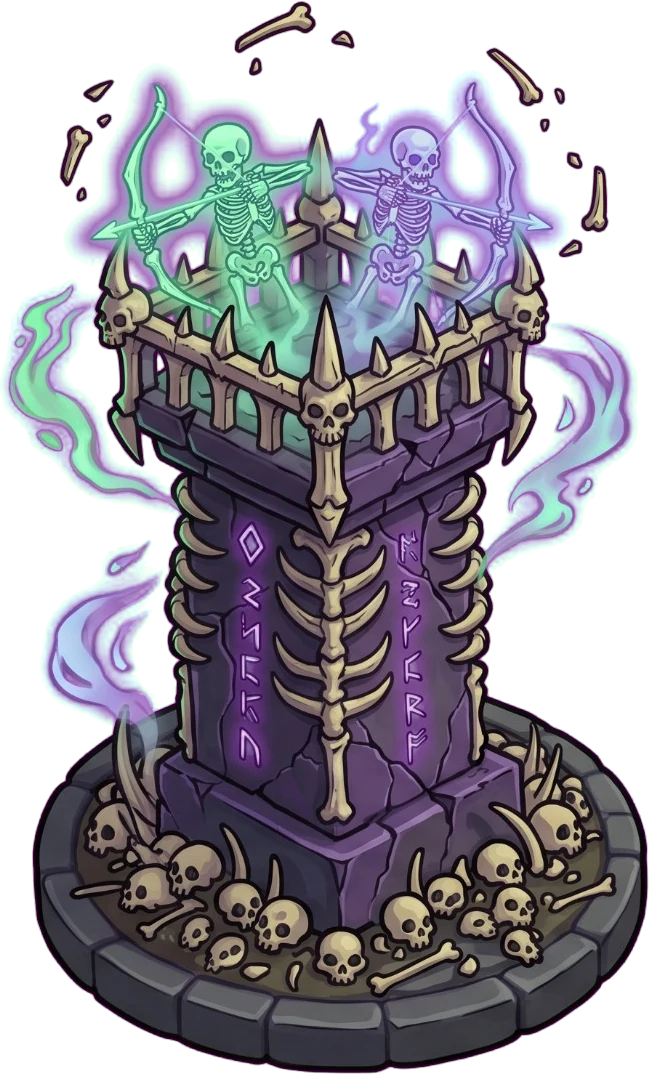
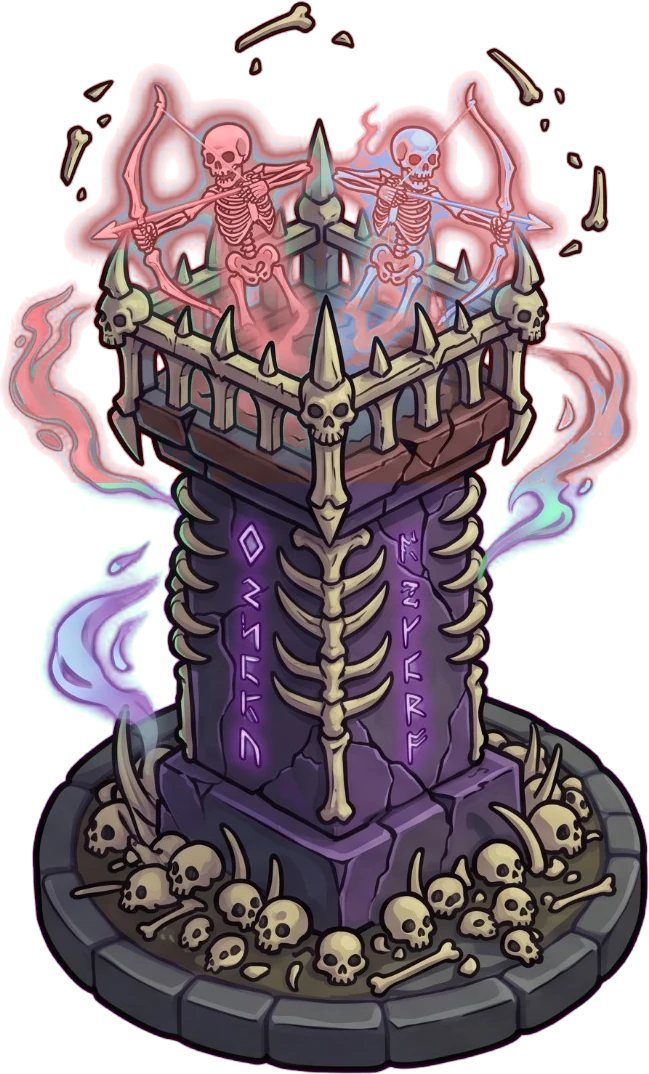
Yollar sol alttaki portre ve büyü düğmelerinin altından geçmez (18 bölüm, tools/hud-yol-duzelt.js, arsalar yeniden); hayalet okçular kırmızı (yayın 218)

diff --git a/sinir-kalesi/js/data.js b/sinir-kalesi/js/data.js
@@ -169,39 +169,39 @@ const WEATHER = {
 // 15 bölümün yol ve arsa düzeni (oynanış sırasıyla)
 const LEVELS = [
   { paths: [[[-40,250],[110,250],[210,170],[340,150],[450,210],[470,310],[400,390],[470,460],[610,450],[700,400],[760,370],[862,290]]], plots: [[514,384],[316,216],[796,432],[382,258],[88,150],[598,375],[238,246],[691,315],[388,498]] },
-  { paths: [[[420,-40],[420,70],[300,110],[170,160],[180,250],[330,280],[520,240],[620,170],[690,230],[640,320],[480,350],[400,430],[540,480],[690,450],[770,390],[862,300]]], plots: [[544,408],[310,204],[835,423],[478,174],[640,396],[355,348],[394,192],[691,123],[88,234],[364,498]] },
-  { paths: [[[-40,120],[150,120],[330,100],[520,120],[640,170],[650,250],[560,290],[400,280],[260,300],[200,370],[270,440],[430,470],[600,450],[730,420],[862,320]]], plots: [[511,219],[346,384],[634,372],[262,174],[460,399],[691,348],[190,210],[442,180],[544,390],[106,222],[577,210]] },
-  { paths: [[[-40,330],[100,330],[200,300],[300,200],[450,170],[580,210],[650,310],[740,380],[862,300]],[[-40,330],[100,330],[200,300],[300,400],[450,440],[580,410],[650,310],[740,380],[862,300]]], plots: [[544,324],[313,297],[691,231],[190,408],[394,312],[670,426],[520,258],[106,228],[463,369],[802,438],[400,240]], routes: {"0":[0,1]} },
-  { paths: [[[-40,420],[120,420],[230,360],[330,300],[460,290],[560,330],[660,350],[750,360],[862,280]],[[560,-40],[560,80],[440,120],[340,180],[330,300],[460,290],[560,330],[660,350],[750,360],[862,280]]], plots: [[418,216],[334,378],[691,285],[502,216],[100,324],[628,414],[238,264],[622,156],[796,420],[268,420],[505,384]] },
-  { paths: [[[-40,130],[150,130],[300,180],[430,270],[560,370],[680,420],[760,390],[862,300]],[[-40,400],[150,400],[300,350],[430,270],[560,170],[660,160],[700,250],[690,330],[760,390],[862,300]]], plots: [[586,300],[298,270],[790,456],[604,234],[214,276],[94,276],[430,366],[703,486],[424,171],[154,228],[862,414],[316,420]] },
+  { paths: [[[420,-40],[420,70],[300,110],[170,160],[180,250],[330,280],[520,240],[620,170],[690,230],[640,320],[480,350],[400,415],[540,480],[690,450],[770,390],[862,300]]], plots: [[544,408],[310,204],[742,318],[478,174],[640,396],[352,348],[394,192],[772,252],[88,234],[382,498]] },
+  { paths: [[[-40,120],[150,120],[330,100],[520,120],[640,170],[650,250],[560,290],[400,280],[260,300],[200,327],[270,355],[491,470],[600,450],[730,420],[862,320]]], plots: [[508,222],[292,222],[520,402],[712,348],[400,348],[190,210],[442,174],[610,378],[106,222],[238,420],[808,462]] },
+  { paths: [[[-40,330],[100,330],[200,300],[300,200],[450,170],[580,210],[650,310],[740,380],[862,300]],[[-40,330],[100,330],[200,300],[300,379],[467,440],[580,410],[650,310],[740,380],[862,300]]], plots: [[544,324],[316,294],[748,288],[202,402],[460,312],[670,426],[106,228],[400,240],[802,438],[382,492],[520,258]], routes: {"0":[0,1]} },
+  { paths: [[[-40,387],[120,387],[230,360],[330,300],[460,290],[560,330],[660,350],[750,360],[862,280]],[[560,-40],[560,80],[440,120],[340,180],[330,300],[460,290],[560,330],[660,350],[750,360],[862,280]]], plots: [[424,216],[340,378],[712,288],[514,204],[202,294],[664,420],[106,288],[430,360],[622,156],[796,420],[244,222]] },
+  { paths: [[[-40,130],[150,130],[300,180],[430,270],[560,370],[680,420],[760,390],[862,300]],[[-40,387],[150,387],[300,350],[430,270],[560,170],[660,160],[700,250],[690,330],[760,390],[862,300]]], plots: [[586,300],[298,270],[790,456],[112,264],[604,234],[418,366],[214,270],[700,486],[430,174],[862,414],[484,408],[772,210]] },
   { paths: [[[380,-40],[380,80],[260,130],[170,220],[220,320],[360,340],[480,280],[600,250],[680,320],[760,340],[862,260]],[[600,580],[600,470],[650,400],[680,320],[760,340],[862,260]]], plots: [[580,336],[316,228],[691,228],[526,396],[394,186],[748,408],[262,408],[130,138],[718,474],[460,144],[175,378]] },
   { paths: [[[-40,220],[120,220],[220,260],[330,180],[470,150],[600,180],[680,260],[700,350],[770,380],[862,300]],[[520,-40],[520,60],[470,150],[600,180],[680,260],[700,350],[770,380],[862,300]],[[-40,220],[120,220],[220,260],[330,340],[480,380],[620,390],[700,350],[770,380],[862,300]]], plots: [[562,288],[370,246],[865,408],[184,324],[460,252],[712,438],[100,318],[226,168],[448,444],[802,444],[658,132],[244,372]], routes: {"0":[0,2]} },
   { paths: [[[-40,250],[120,250],[220,170],[340,160],[420,230],[440,300],[560,300],[680,360],[760,370],[862,290]],[[560,-40],[560,80],[490,130],[420,230],[440,300],[560,300],[680,360],[760,370],[862,290]],[[520,580],[520,480],[620,440],[680,360],[760,370],[862,290]]], plots: [[508,228],[718,438],[304,225],[538,366],[100,150],[691,285],[586,186],[346,288],[238,264],[454,408],[802,432],[88,354]] },
-  { paths: [[[-40,320],[90,320],[160,220],[270,140],[430,110],[590,130],[690,200],[700,300],[610,390],[470,420],[410,470],[500,500],[660,490],[770,430],[862,330]]], plots: [[610,288],[280,216],[508,180],[808,492],[418,363],[70,198],[601,216],[358,186],[550,333],[868,444],[226,276],[352,414]] },
-  { paths: [[[340,-40],[340,80],[220,140],[180,230],[300,270],[450,250],[520,290],[620,250],[700,320],[770,380],[862,300]],[[460,580],[460,480],[340,440],[320,360],[450,330],[520,290],[620,250],[700,320],[770,380],[862,300]]], plots: [[328,198],[502,390],[610,336],[244,333],[691,201],[400,162],[238,408],[661,390],[115,156],[520,204],[835,432],[556,444]] },
+  { paths: [[[-40,320],[90,320],[160,220],[270,140],[430,110],[590,130],[690,200],[700,300],[610,390],[470,420],[425,470],[500,500],[660,490],[770,430],[862,330]]], plots: [[598,276],[280,216],[808,492],[502,180],[448,354],[70,198],[364,186],[556,336],[580,210],[868,444],[226,276],[352,498]] },
+  { paths: [[[340,-40],[340,80],[220,140],[180,230],[300,270],[450,250],[520,290],[620,250],[700,320],[770,380],[862,300]],[[461,580],[461,480],[340,385],[320,360],[450,330],[520,290],[620,250],[700,320],[770,380],[862,300]]], plots: [[508,384],[328,198],[610,336],[244,336],[772,282],[400,162],[268,420],[526,204],[832,432],[130,132],[556,444],[664,390]] },
   { paths: [[[-40,200],[100,200],[200,250],[320,180],[460,150],[580,200],[620,300],[700,400],[780,410],[862,330]],[[640,-40],[640,80],[580,200],[620,300],[700,400],[780,410],[862,330]],[[-40,200],[100,200],[200,250],[320,330],[470,370],[600,420],[700,400],[780,410],[862,330]]], plots: [[544,324],[340,252],[838,459],[508,252],[160,318],[694,474],[424,246],[76,294],[220,156],[778,480],[682,234]], routes: {"0":[0,2]} },
   { paths: [[[-40,300],[120,300],[220,230],[350,200],[480,240],[560,320],[680,380],[770,380],[862,300]],[[400,-40],[400,90],[330,140],[350,200],[480,240],[560,320],[680,380],[770,380],[862,300]],[[640,580],[640,470],[680,380],[770,380],[862,300]],[[-40,300],[120,300],[220,370],[360,410],[500,400],[560,320],[680,380],[770,380],[862,300]]], plots: [[412,294],[244,300],[691,300],[538,462],[472,153],[124,402],[748,456],[328,288],[118,198],[634,267],[220,156],[832,432],[382,480]], routes: {"0":[0,3]} },
   { paths: [[[-40,160],[130,160],[240,120],[380,140],[480,220],[560,300],[680,370],[770,380],[862,300]],[[480,580],[480,480],[400,420],[380,300],[560,300],[680,370],[770,380],[862,300]],[[-40,160],[130,160],[240,120],[260,230],[380,300],[560,300],[680,370],[770,380],[862,300]],[[480,580],[480,480],[600,450],[680,370],[770,380],[862,300]]], plots: [[514,372],[364,216],[691,291],[166,252],[706,450],[577,207],[292,342],[340,498],[82,264],[796,444],[520,153],[307,408],[640,255],[868,408]], routes: {"0":[0,2],"1":[1,3]} },
-  { paths: [[[-40,240],[120,240],[230,170],[380,150],[520,190],[600,280],[700,360],[770,370],[862,290]],[[640,-40],[640,80],[560,130],[520,190],[600,280],[700,360],[770,370],[862,290]],[[420,580],[420,480],[520,440],[620,430],[700,360],[770,370],[862,290]],[[-40,240],[120,240],[230,320],[360,360],[480,340],[600,280],[700,360],[770,370],[862,290]]], plots: [[580,366],[274,252],[469,261],[691,249],[124,342],[634,198],[337,426],[388,240],[724,438],[112,138],[652,492],[808,432],[202,384]], routes: {"0":[0,3]} },
+  { paths: [[[-40,240],[120,240],[230,170],[380,150],[520,190],[600,280],[700,360],[770,370],[862,290]],[[640,-40],[640,80],[560,130],[520,190],[600,280],[700,360],[770,370],[862,290]],[[435,580],[435,480],[520,440],[620,430],[700,360],[770,370],[862,290]],[[-40,240],[120,240],[230,320],[360,360],[480,340],[600,280],[700,360],[770,370],[862,290]]], plots: [[580,366],[274,252],[472,264],[736,294],[124,342],[634,198],[352,432],[388,240],[724,438],[112,138],[712,150],[652,492],[808,432]], routes: {"0":[0,3]} },
 ];
 
 // Sefer 2 (Cadı Avı) yol ve arsa düzeni: aynı biçim; data.js sonunda LEVELS'a eklenir (arsa-uret.js sırayla yazar)
 const LEVELS2_GEO = [
   { paths: [[[-40,300],[120,300],[220,210],[360,180],[460,240],[450,340],[540,420],[680,410],[760,340],[862,310]]], plots: [[322,252],[586,354],[778,426],[100,198],[364,312],[556,492],[250,288],[772,270],[106,402],[538,294],[718,474],[436,132]] },
   { paths: [[[300,-40],[300,80],[180,150],[150,260],[260,330],[400,300],[520,220],[640,240],[660,340],[580,430],[690,470],[790,400],[862,320]]], plots: [[562,336],[286,222],[742,342],[478,336],[796,492],[184,378],[352,174],[544,498],[742,270],[94,144],[274,402],[574,150]] },
-  { paths: [[[-40,180],[130,180],[250,250],[380,230],[500,300],[620,330],[740,330],[862,300]],[[-40,430],[130,430],[250,370],[380,390],[500,300],[620,330],[740,330],[862,300]]], plots: [[340,306],[538,384],[88,312],[742,402],[202,312],[508,222],[760,264],[466,426],[268,180],[658,402],[340,462],[826,420]] },
-  { paths: [[[-40,430],[100,430],[200,340],[180,230],[280,150],[420,150],[520,230],[480,330],[580,410],[720,410],[790,340],[862,300]]], plots: [[622,348],[292,222],[88,324],[424,234],[808,432],[274,288],[592,282],[712,306],[382,294],[238,420],[616,486],[166,132]] },
-  { paths: [[[-40,150],[140,150],[250,220],[400,220],[520,160],[650,190],[700,280],[780,330],[862,300]],[[-40,390],[140,390],[260,330],[400,350],[520,430],[640,420],[700,350],[780,330],[862,300]]], plots: [[556,312],[202,276],[754,402],[430,288],[100,276],[766,240],[502,252],[268,402],[514,498],[304,156],[598,252],[712,462]] },
+  { paths: [[[-40,180],[130,180],[250,250],[380,230],[500,300],[620,330],[740,330],[862,300]],[[-40,387],[130,387],[250,370],[380,390],[500,300],[620,330],[740,330],[862,300]]], plots: [[346,312],[118,288],[514,378],[742,402],[508,222],[268,180],[760,264],[340,462],[598,396],[460,432],[826,420],[352,162]] },
+  { paths: [[[-40,387],[100,387],[200,340],[180,230],[280,150],[420,150],[520,230],[480,330],[580,410],[720,410],[790,340],[862,300]]], plots: [[622,348],[292,222],[100,288],[424,234],[808,432],[592,282],[274,288],[712,306],[382,294],[232,420],[616,486],[886,402]] },
+  { paths: [[[-40,150],[140,150],[250,220],[400,220],[520,160],[650,190],[700,280],[780,330],[862,300]],[[-40,387],[140,387],[260,330],[400,350],[520,430],[640,420],[700,350],[780,330],[862,300]]], plots: [[562,306],[202,276],[754,402],[430,288],[100,276],[760,234],[502,252],[292,396],[514,498],[304,156],[706,462],[586,240]] },
   { paths: [[[480,-40],[480,70],[360,120],[240,180],[200,290],[300,360],[460,330],[580,250],[700,230],[760,320],[700,420],[790,440],[862,340]]], plots: [[340,252],[652,342],[472,198],[832,498],[538,156],[244,414],[424,258],[694,498],[178,132],[772,192],[886,438],[172,378]] },
-  { paths: [[[-40,240],[90,240],[160,140],[300,110],[420,170],[400,280],[300,350],[350,440],[500,460],[620,390],[640,280],[740,250],[862,300]]], plots: [[280,216],[712,330],[442,396],[730,396],[202,258],[502,348],[112,336],[490,138],[232,414],[598,498],[724,180],[820,420]] },
-  { paths: [[[260,-40],[260,90],[380,170],[520,170],[640,250],[750,310],[862,300]],[[260,580],[260,470],[380,400],[520,400],[640,330],[750,310],[862,300]]], plots: [[568,288],[724,378],[388,492],[478,282],[328,228],[772,240],[178,144],[376,306],[646,408],[178,420],[232,204],[796,414]] },
+  { paths: [[[-40,240],[90,240],[160,140],[300,110],[420,170],[400,280],[300,350],[350,391],[500,460],[620,390],[640,280],[740,250],[862,300]]], plots: [[280,204],[712,330],[448,366],[700,402],[208,246],[532,372],[112,336],[346,474],[490,138],[796,414],[508,306],[256,420]] },
+  { paths: [[[260,-40],[260,90],[380,170],[520,170],[640,250],[750,310],[862,300]],[[435,580],[435,470],[435,400],[520,400],[640,330],[750,310],[862,300]]], plots: [[556,294],[724,378],[472,288],[328,228],[532,468],[760,234],[178,144],[682,192],[244,210],[796,414],[328,420],[388,282]] },
   { paths: [[[-40,330],[120,330],[200,240],[320,180],[460,200],[540,290],[460,380],[560,460],[700,440],[760,360],[862,310]],[[-40,330],[120,330],[200,240],[320,180],[460,200],[600,170],[700,240],[760,360],[862,310]]], plots: [[604,348],[418,264],[808,432],[292,270],[616,264],[88,234],[394,330],[754,492],[238,324],[472,498],[688,132],[154,420]], routes: {"0":[0,1]} },
-  { paths: [[[-40,140],[150,140],[260,200],[250,300],[140,380],[220,460],[380,450],[470,370],[580,300],[700,330],[780,330],[862,300]]], plots: [[286,390],[130,234],[586,372],[754,396],[364,360],[736,258],[526,420],[298,132],[70,282],[70,420],[670,396],[442,498]] },
-  { paths: [[[-40,200],[140,200],[260,260],[400,260],[540,300],[680,330],[862,300]],[[400,-40],[400,90],[460,180],[540,300],[680,330],[862,300]],[[-40,440],[140,440],[300,410],[440,400],[540,300],[680,330],[862,300]]], plots: [[400,330],[568,384],[154,330],[346,192],[730,270],[70,324],[298,342],[580,228],[304,132],[754,414],[514,438],[340,480]] },
+  { paths: [[[-40,140],[150,140],[260,200],[250,300],[140,380],[220,409],[380,409],[470,370],[580,300],[700,330],[780,330],[862,300]]], plots: [[310,348],[130,234],[598,372],[754,396],[394,330],[736,258],[112,306],[526,420],[298,132],[340,486],[70,414],[838,420]] },
+  { paths: [[[-40,200],[140,200],[260,260],[400,260],[540,300],[680,330],[862,300]],[[400,-40],[400,90],[460,180],[540,300],[680,330],[862,300]],[[-40,393],[140,393],[300,410],[440,400],[540,300],[680,330],[862,300]]], plots: [[400,330],[568,384],[118,294],[346,192],[730,270],[238,336],[580,228],[304,132],[754,414],[340,480],[514,438],[670,402]] },
   { paths: [[[620,-40],[620,70],[500,110],[360,110],[230,170],[200,270],[300,340],[440,330],[560,380],[660,450],[760,400],[862,320]]], plots: [[334,228],[670,372],[484,216],[790,468],[460,414],[640,174],[388,174],[208,378],[532,450],[742,330],[154,144],[706,132]] },
-  { paths: [[[-40,260],[100,260],[180,180],[300,140],[400,200],[380,300],[260,350],[300,450],[450,470],[560,400],[600,300],[700,250],[790,280],[862,310]]], plots: [[262,258],[712,324],[406,390],[682,390],[190,318],[478,354],[82,144],[442,132],[766,408],[562,498],[190,420],[124,360]] },
-  { paths: [[[-40,160],[120,160],[240,100],[380,120],[480,200],[600,250],[720,320],[862,300]],[[200,580],[200,470],[320,420],[460,400],[600,360],[720,320],[862,300]]], plots: [[538,306],[724,396],[298,168],[340,498],[454,312],[742,252],[226,204],[124,258],[370,204],[310,348],[640,420],[118,420]] },
-  { paths: [[[-40,300],[110,300],[220,260],[340,280],[460,300],[600,300],[740,310],[862,300]],[[300,-40],[300,90],[400,180],[460,300],[600,300],[740,310],[862,300]],[[300,580],[300,460],[400,400],[460,300],[600,300],[740,310],[862,300]]], plots: [[502,378],[304,342],[502,222],[742,390],[256,192],[220,396],[766,246],[76,402],[586,372],[208,132],[418,498],[478,156]] },
+  { paths: [[[-40,260],[100,260],[180,180],[300,140],[400,200],[380,300],[260,350],[300,355],[491,470],[560,400],[600,300],[700,250],[790,280],[862,310]]], plots: [[268,270],[454,372],[712,318],[178,324],[670,378],[352,480],[82,144],[472,306],[754,396],[442,132],[586,498],[106,360]] },
+  { paths: [[[-40,160],[120,160],[240,100],[380,120],[480,200],[600,250],[720,320],[862,300]],[[435,580],[435,470],[435,420],[460,400],[600,360],[720,320],[862,300]]], plots: [[538,306],[724,396],[298,168],[532,462],[742,252],[226,204],[460,270],[124,258],[370,204],[808,420],[334,420],[640,420]] },
+  { paths: [[[-40,300],[110,300],[220,260],[340,280],[460,300],[600,300],[740,310],[862,300]],[[300,-40],[300,90],[400,180],[460,300],[600,300],[740,310],[862,300]],[[435,580],[435,460],[435,400],[460,300],[600,300],[740,310],[862,300]]], plots: [[532,378],[256,192],[502,222],[742,390],[346,354],[94,204],[532,450],[766,246],[208,132],[118,396],[616,372],[250,330]] },
 ];
 
 // ----- seferler -----

diff --git a/sinir-kalesi/tools/hud-yol-duzelt.js b/sinir-kalesi/tools/hud-yol-duzelt.js
@@ -1,0 +1,44 @@
+// Sol alttaki arayüzün (komutan portresi + büyü düğmeleri) altından yol geçmesin: yol kontrol noktaları bu köşeden itilir.
+// Kullanım: node tools/hud-yol-duzelt.js js/data.js [--dry]   (sonra: node tools/arsa-uret.js js/data.js <değişen bölümler>)
+// Aynı koordinatlı noktalar aynı yere taşınır (kollar ortak gövdeyi paylaşmaya devam eder).
+const fs = require('fs'); global.window = {}; global.dist = (a, b, c, d) => Math.hypot(a - c, b - d);
+const file = process.argv[2], dry = process.argv.includes('--dry');
+const src = fs.readFileSync(__dirname + '/arsa-denetim.js', 'utf8');
+eval(src.slice(src.indexOf('function smoothPts'), src.indexOf('function cum(')));
+const RECTS = [[10, 440, 145, 540], [85, 468, 378, 540]], HALF = 22 * 1.57, CLEAR = 12, M = HALF + CLEAR;
+const dRect = (x, y, r) => Math.hypot(Math.max(r[0] - x, 0, x - r[2]), Math.max(r[1] - y, 0, y - r[3]));
+const dZone = (x, y) => Math.min(...RECTS.map(r => dRect(x, y, r)));
+function push([x, y], m) {
+  if (x < 0) return [x, Math.min(y, RECTS[0][1] - m)];                 // soldan giriş: düğmelerin üstünden
+  if (y > 540) return [Math.max(x, RECTS[1][2] + m), y];                // alttan giriş: düğmelerin sağından
+  if (dZone(x, y) >= m) return [x, y];
+  const up = x <= RECTS[0][2] + m ? RECTS[0][1] - m : RECTS[1][1] - m;  // yukarı it ya da sağa it: hangisi az oynatıyorsa
+  const right = RECTS[1][2] + m;
+  return Math.abs(y - up) <= Math.abs(x - right) ? [x, Math.min(y, up)] : [Math.max(x, right), y];
+}
+function worst(paths) {
+  let w = { d: 1e9 };
+  paths.forEach((p, pi) => { const ps = smoothPts(p); for (let k = 0; k < ps.length - 1; k++) for (let t = 0; t <= 1; t += 0.1) {
+    const x = ps[k][0] + (ps[k + 1][0] - ps[k][0]) * t, y = ps[k][1] + (ps[k + 1][1] - ps[k][1]) * t, d = dZone(x, y) - HALF;
+    if (d < w.d) w = { d, x, y, pi }; } });
+  return w;
+}
+let text = fs.readFileSync(file, 'utf8'), changed = [], li = 0;
+text = text.replace(/^(  \{ paths: )(\[\[\[.*?\]\]\])(, plots:)/gm, (all, a, ps, b) => {
+  li++;
+  let paths = JSON.parse(ps), w0 = worst(paths);
+  if (w0.d >= CLEAR) return all;
+  // alttan sol köşeden giren yol: girişten itibaren alt banttaki noktalar birlikte düğmelerin sağına kayar
+  paths = paths.map(p => { if (!(p[0][1] > 540 && p[0][0] < RECTS[1][2] + M)) return p; const q = p.map(v => v.slice());
+    for (let k = 0; k < q.length && q[k][1] > RECTS[1][1] - M - 30; k++) q[k][0] = Math.max(q[k][0], RECTS[1][2] + M + 10); return q; });
+  for (let it = 0, m = M; it < 12; it++, m += 6) {
+    const map = new Map();
+    paths = paths.map(p => p.map(q => { const k = q.join(','); if (!map.has(k)) map.set(k, push(q, m)); return map.get(k).map(Math.round); }));
+    if (worst(paths).d >= CLEAR) break;
+  }
+  const w1 = worst(paths);
+  changed.push(li); console.log(`${li}. bölüm: ${w0.d.toFixed(0)} px -> ${w1.d.toFixed(0)} px`);
+  return a + JSON.stringify(paths) + b;
+});
+if (!dry) fs.writeFileSync(file, text);
+console.log('değişen:', changed.join(','));

diff --git a/sinir-kalesi/js/game.js b/sinir-kalesi/js/game.js
@@ -2388,7 +2388,7 @@ function updateObeliskForm(t, dt, L, ts, F) {
     for (let i = 0; i < 8; i++) emit(G.parts, { kind: 'glow', add: true, x: o.x, y: o.y, vx: rand(-40, 40) + (e.x - o.x) * 0.3, vy: rand(-40, 20), drag: 3, col: i % 2 ? '255,80,80' : '255,190,120', s0: 3.5, s1: 0.5, life: 0.35 });
     t.snap = { x: n.x, y: n.y, t: 0.18 }; sfx('cannon');
   } else {
-    const side = e.x < t.x ? 'L' : 'R', o = formPoint(t, ts, F.bows[side]), col = side === 'L' ? '130,255,170' : '200,140,255';
+    const side = e.x < t.x ? 'L' : 'R', o = formPoint(t, ts, F.bows[side]), col = side === 'L' ? '255,90,90' : '255,70,130';
     t.shotSide = side;
     const shot = (tg, dmg) => G.projectiles.push({ kind: 'ghostarrow', col, sx: o.x, sy: o.y, target: tg, tx: tg.x, ty: aimY(tg), t: -rel, dur: clamp(dist(o.x, o.y, tg.x, tg.y) / 700, 0.1, 0.4),
       dmg: dmg * (tg.def.flying ? F.fly : 1), dtype: 'phys', arc: 4, crit, nail: nl ? nl.rise : 0, src: 'arrow' });
@@ -5446,7 +5446,7 @@ function drawNecroTowerFx(t, ts) {
       }
     } else { // hayalet okçular: iki okçu yeşil ve mor nabız gibi parlar, atan okçu parlar
       for (const side of ['L', 'R']) {
-        const o = formPoint(t, ts, OF.bows[side]), col = side === 'L' ? '130,255,170' : '200,140,255', fire = t.shotSide === side ? t.shotAnim / 0.3 : 0;
+        const o = formPoint(t, ts, OF.bows[side]), col = side === 'L' ? '255,90,90' : '255,70,130', fire = t.shotSide === side ? t.shotAnim / 0.3 : 0;
         glow(ctx, o.x + (side === 'L' ? 6 : -6) * s, o.y + 2 * s, (10 + 8 * fire) * s, col, 0.25 + Math.sin(time * 3 + (side === 'L' ? 0 : 2)) * 0.08 + 0.5 * fire);
       }
     }

diff --git a/sinir-kalesi/index.html b/sinir-kalesi/index.html
@@ -13,7 +13,7 @@
 <canvas id="game" aria-label="Sınır Kalesi oyun alanı"></canvas>
 <script>
   // Sürüm damgası: her yayında artırılır; tarayıcı eski önbellek kopyasını kullanmaz (js ve görseller).
-  window.SURUM = '217';
+  window.SURUM = '218';
   for (const f of ['js/data.js', 'js/game.js']) document.write('<script src="' + f + '?v=' + window.SURUM + '"><\/script>');
 </script>
 

diff --git a/sinir-kalesi/yayin.html b/sinir-kalesi/yayin.html
@@ -13,6 +13,6 @@
 <canvas id="game" aria-label="Sınır Kalesi oyun alanı"></canvas>
 <script>
   // Sürüm damgası: her yayında artırılır; tarayıcı eski önbellek kopyasını kullanmaz (js ve görseller).
-  window.SURUM = '217';
+  window.SURUM = '218';
   for (const f of ['js/data.js', 'js/game.js']) document.write('<script src="' + f + '?v=' + window.SURUM + '"><\/script>');
 </script>

diff --git a/varliklar/nm_isle.py b/varliklar/nm_isle.py
@@ -58,6 +58,9 @@ BOXES = {
     'nm_engizisyon_D.jpg': [(0, 40, 660, 750), (670, 20, 1345, 760), (0, 760, 760, 1493), [(1345, 380, 2000, 1493), (940, 760, 1345, 1493)]],
 }
 BOX_EDGE_DROP = {'nm2_dekor_A.jpg'}
+# renk değiştirme: görselin üstten şu oranlık kısmında yeşil/mor parlak tonlar verilen renk tonuna (derece) döner
+# (10 Eki: Caner hayalet okçuları kırmızı istedi)
+HUE_TOP = {'tower_archer_fan': (0.45, 356)}
 # magentaya karışmış ışık/duman: yarı saydam mor pikseller verilen renge çekilir (ad: renk; None = gri duman)
 GLOW_FIX = {'nm_bwall_4': (120, 255, 140), 'nm_bwall_5': (120, 255, 140), 'nm2_stake': None, 'nm2_hatch_open': (120, 255, 140), 'nm2_hatch_sealed': (140, 255, 140), 'nm2_ravtree': (140, 255, 140)}
 # yarı saydam duman magenta zeminden mor/yeşil renk alır: bu görsellerde ateş dışındaki yarı saydam pikseller griye çekilir
@@ -253,6 +256,18 @@ def main():
                 col = GLOW_FIX[name]; lum = np.maximum(r, b) / 255
                 for ch in range(3): f[..., ch] = f[..., ch] * (1 - k) + ((col[ch] * lum) if col else (0.55 * lum * 255)) * k
                 c = np.dstack([f[..., :3].clip(0, 255).astype(np.uint8), c[..., 3]])
+            if name in HUE_TOP:
+                top, hue = HUE_TOP[name]
+                rgbf = c[..., :3].astype(np.float32) / 255; mx = rgbf.max(-1); mn = rgbf.min(-1); sat = np.where(mx > 0, (mx - mn) / np.maximum(mx, 1e-6), 0)
+                r_, g_, b_ = rgbf[..., 0], rgbf[..., 1], rgbf[..., 2]
+                ghost = (sat > 0.22) & ((g_ > r_ + 0.08) | ((b_ > g_ + 0.08) & (r_ > g_))) # yeşil ya da mor
+                ghost[int(c.shape[0] * top):] = False
+                # yeni ton: aynı parlaklık ve doygunlukla kırmızı (hue derece)
+                hh = hue / 60.0; v = mx; ss = sat; i = np.floor(hh) % 6; f = hh - np.floor(hh)
+                pp = v * (1 - ss); qq = v * (1 - ss * f); tt = v * (1 - ss * (1 - f))
+                lut = {0: (v, tt, pp), 1: (qq, v, pp), 2: (pp, v, tt), 3: (pp, qq, v), 4: (tt, pp, v), 5: (v, pp, qq)}[int(i)]
+                for ch in range(3): rgbf[..., ch] = np.where(ghost, lut[ch], rgbf[..., ch])
+                c = np.dstack([(rgbf * 255).clip(0, 255).astype(np.uint8), c[..., 3]])
             im = Image.fromarray(c)
             if name in FLIP: im = im.transpose(Image.FLIP_LEFT_RIGHT)
             if kind in ('unit', 'unitgrid') and im.height > UNIT_H * 1.05:
